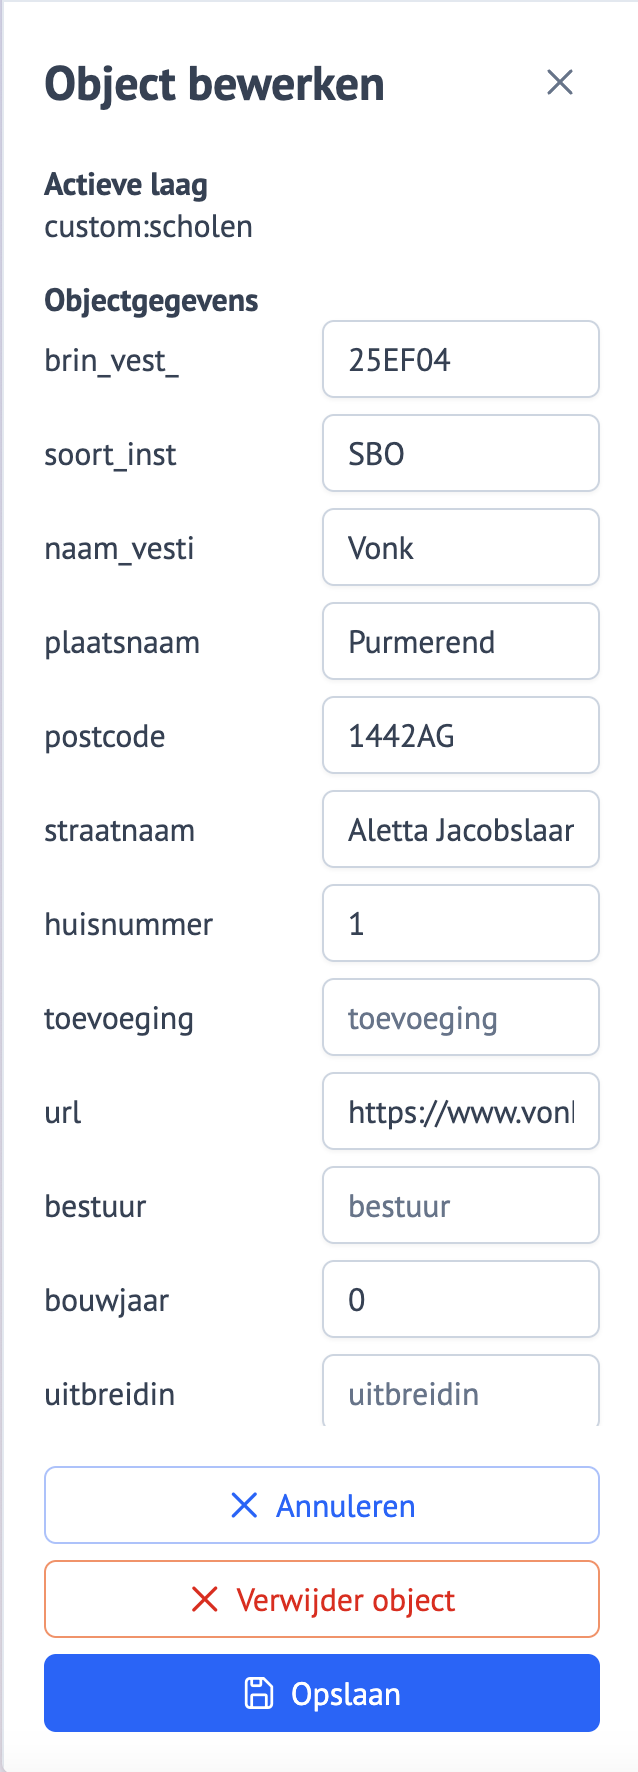
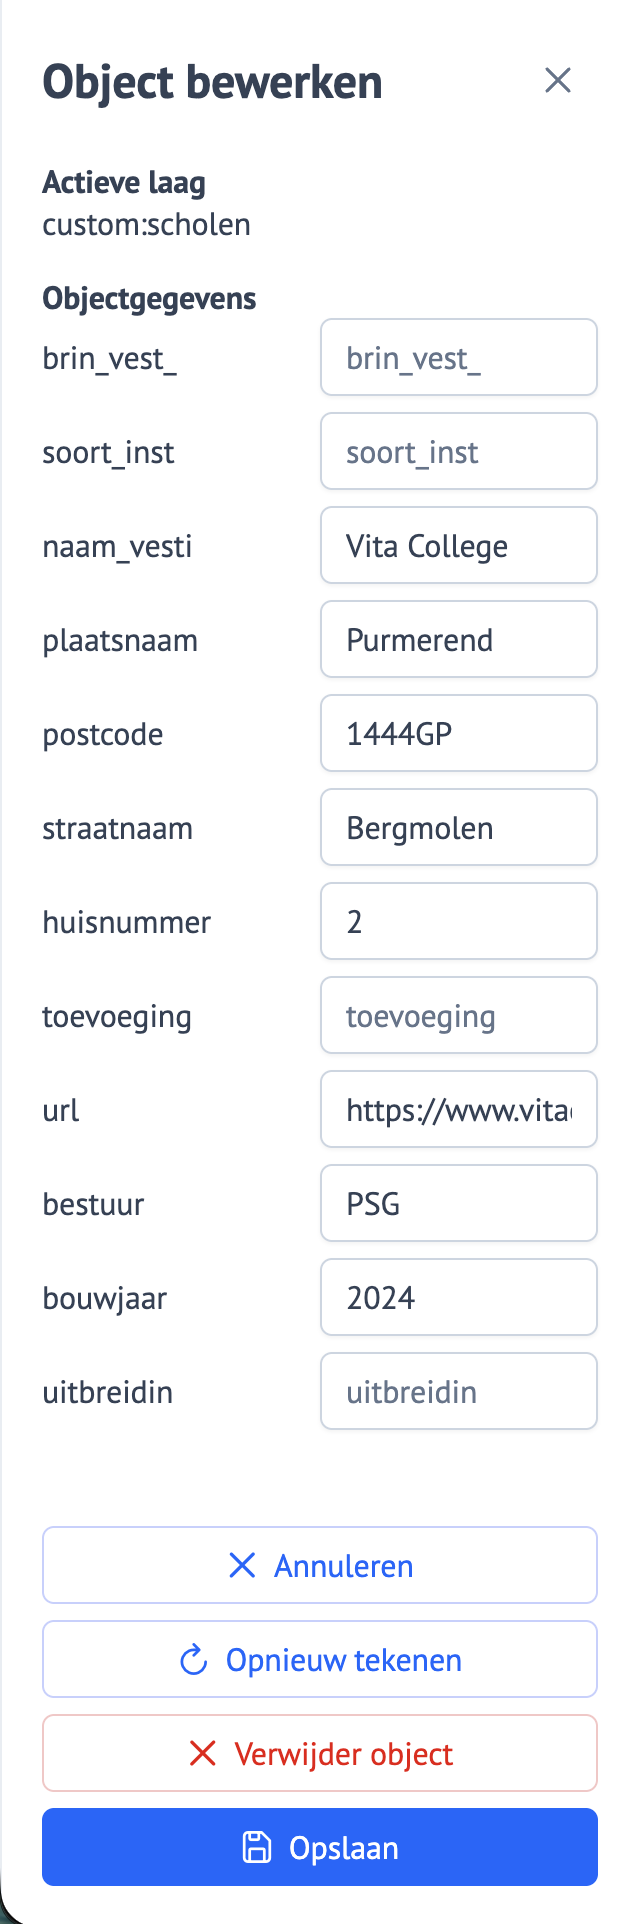
feat: update CRUD functionality documentation and images

diff --git a/docs/admin/docs/crud_functionaliteit.md b/docs/admin/docs/crud_functionaliteit.md
@@ -26,12 +26,12 @@ Als je geen toegangsregels op kaartlaagniveau wilt instellen, kun je de CRUD-fun
 
 ### 2.4 Samenvatting
 
-| Stap | Actie                                                                                   |
-|------|------------------------------------------------------------------------------------------|
-| 1    | Zorg dat de gebruiker **FILTER_PROXY** schrijfrechten heeft in GeoServer.               |
-| 2    | Zet de feature flag **"Bewerkfunctionaliteit"** aan in de admin-omgeving van Atlas.     |
-| 3    | Gebruik een kaartlaag met **filter-proxy** als gegevensbron.                            |
-| 4    | Stel toegangsregel
+| Stap | Actie                                                                               |
+| ---- | ----------------------------------------------------------------------------------- |
+| 1    | Zorg dat de gebruiker **FILTER_PROXY** schrijfrechten heeft in GeoServer.           |
+| 2    | Zet de feature flag **"Bewerkfunctionaliteit"** aan in de admin-omgeving van Atlas. |
+| 3    | Gebruik een kaartlaag met **filter-proxy** als gegevensbron.                        |
+| 4    | Stel toegangsregel                                                                  |
 
 ## 3. Het gebruik van de CRUD-functionaliteit
 
@@ -50,34 +50,39 @@ Zodra de gewenste laag actief is, kun je op de knop drukken. Dan verschijnt het 
 ![Object toevoegen of bewerken](../images/object_toevoegen_knop.png)
 
 - Klik op het **plus-icoon** om een object toe te voegen.
-- Klik op het **pen-icoon** om een bestaand object te bewerken.
 
 ### 3.2 Een object toevoegen
 
-Wanneer je op het **plus-icoon** klikt, krijg je direct de mogelijkheid om een object op de kaart te tekenen. Atlas bepaalt automatisch of het hierbij gaat om een punt, lijn of polygoon – afhankelijk van het type kaartlaag.
+Wanneer je op het **plus-icoon** klikt, kun je direct een object op de kaart tekenen. Atlas bepaalt automatisch het type geometrie op basis van de geselecteerde kaartlaag.
+
+#### Toevoegen: Point, Polygon, LineString, LinearRing of Circle
 
 1. Teken het gewenste object op de kaart.
-2. Rond de tekening af door op **Enter** of dubbel te klikken.
-3. Er opent zich nu een invoerpaneel aan de linkerzijde (desktop) of onderzijde (mobiel/tablet):
+2. Rond de tekening af door op **Enter** te drukken of te dubbelklikken.
 
-![Object toevoegen paneel](../images/toevoeg_paneel_crud.png)
+#### Toevoegen: MultiPoint, MultiPolygon of MultiLineString
 
-4. In dit paneel zie je automatisch de velden die bij de laag horen. Vul de relevante gegevens in.
-5. Klik op **Opslaan** om het object op te slaan.
+1. Teken de gewenste objecten op de kaart. Gebruik een dubbelklik om één onderdeel van het multi-object af te ronden. Herhaal dit proces om meerdere onderdelen toe te voegen aan hetzelfde object.
+2. Rond de volledige tekening af door op **Enter** te drukken.
+
+#### Afronden en opslaan (geldt voor alle objecttypen)
+
+1. Er opent automatisch een invoerpaneel aan de linkerzijde op desktop en aan de onderzijde op mobiel/tablet.
+
+   ![Object toevoegen paneel](../images/toevoeg_paneel_crud.png)
+
+2. In dit paneel worden automatisch de velden getoond die bij de laag horen. Vul de relevante gegevens in.
+3. Klik op **Opslaan** om het object op te slaan.
 
 > ✅ De mutatie wordt uitgevoerd op de GeoServer en opgeslagen in de gekoppelde datastore.
 
 ### 3.3 Een object bewerken of verwijderen
 
-Je kunt een object op twee manieren bewerken of verwijderen:
+Je kunt een object op deze manier bewerken of verwijderen:
 
 1. **Via de detailweergave**:
    - Klik het object aan.
    - Druk op de knop **"Bewerk"** in de detailweergave.
-
-2. **Via het pen-icoon**:
-   - Activeer het pen-icoon.
-   - Klik op het object dat je wilt aanpassen.
 
 Hierna opent zich het volgende paneel:
 
@@ -85,9 +90,11 @@ Hierna opent zich het volgende paneel:
 
 In dit paneel kun je:
 
-- Gegevens van het object aanpassen.
-- Wijzigingen opslaan door op **"Opslaan"** te klikken.
+- Gegevens van het object aanpassen
+- Het opject opnieuw tekenen door op **"Opnieuw tekenen"** te klikken.
 - Het object volledig verwijderen door op **"Verwijderen"** te klikken.
+- Wijzigingen opslaan door op **"Opslaan"** te klikken.
+
+Ook kan je in de kaart de geometrie van het object bewerken, door het object te selecteren en punt(en) van het object te slepen naar de gewenste locatie.
 
 > 🔁 Alle bewerkingen en verwijderingen worden direct doorgevoerd in GeoServer en de gekoppelde datastore.
-
